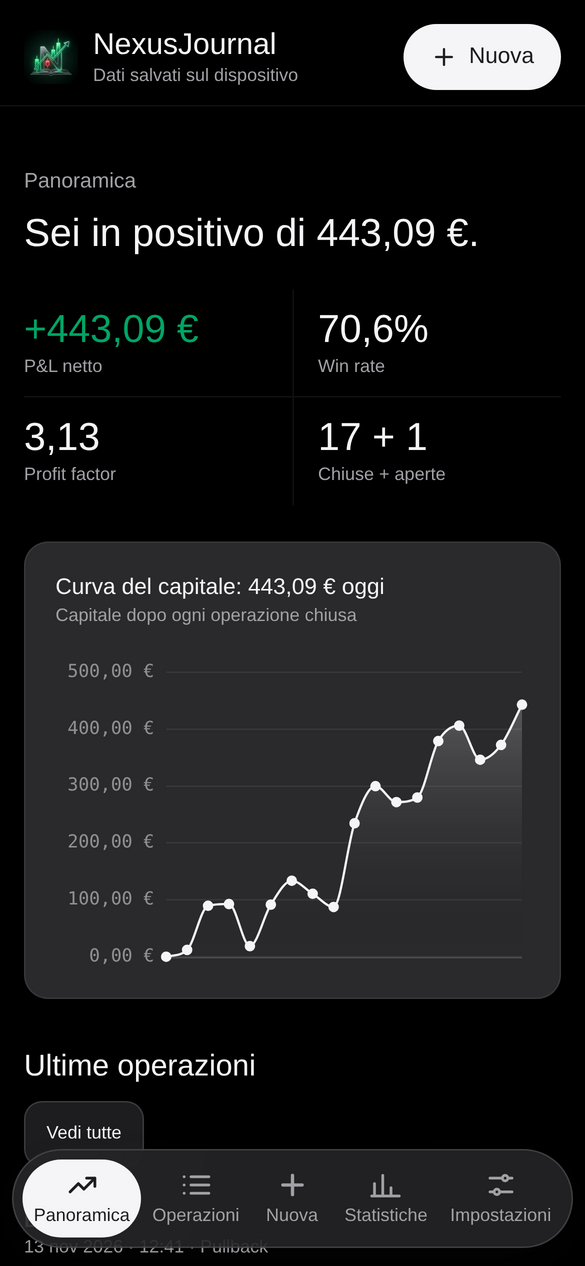
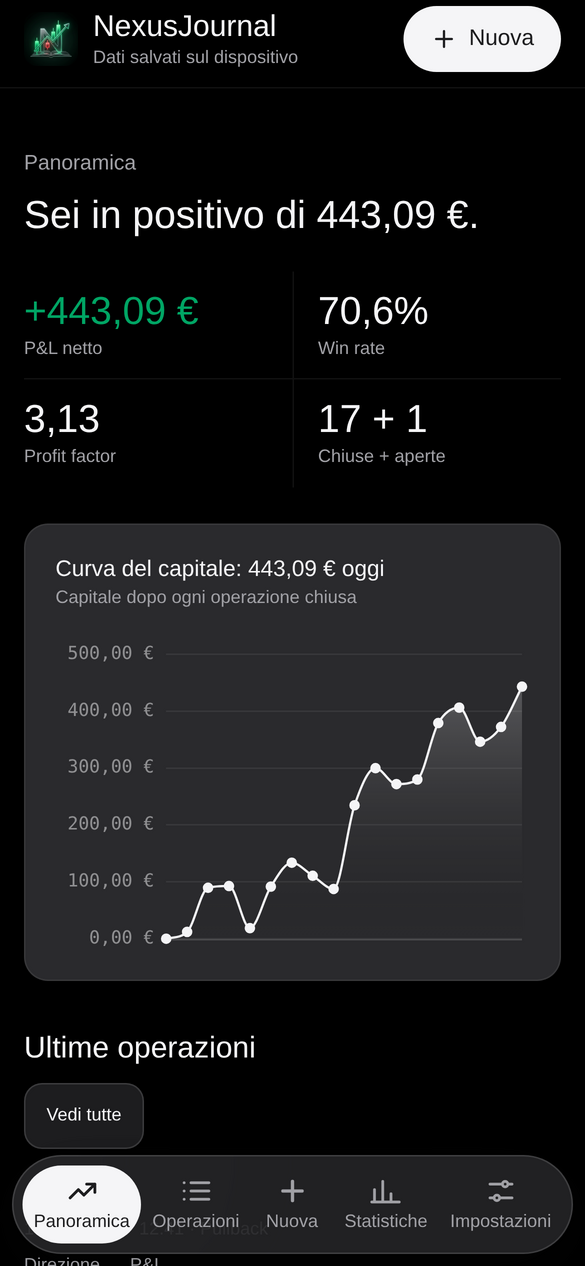
v1.3.2

diff --git a/index.html b/index.html
@@ -61,14 +61,15 @@
     <link rel="stylesheet" href="hark-charts.css" />
     <style>
       /* Black OLED theme: the page is pure black; every other color stays a kit token (dark mode). */
-      :root { color-scheme: dark; --x-oled: #000; }
-      html, body { background: var(--x-oled); }
-      body { -webkit-tap-highlight-color: transparent; }
-      .page { padding-top: calc(env(safe-area-inset-top, 0px) + 8px); padding-bottom: calc(env(safe-area-inset-bottom, 0px) + 104px); }
+      :root { color-scheme: dark; --x-oled: #000; --x-tab-h: 66px; --x-tab-bottom: max(8px, calc(env(safe-area-inset-bottom, 0px) - 12px)); }
+      html, body { background: var(--x-oled); margin: 0; }
+      html { height: -webkit-fill-available; min-height: 100%; }
+      body { min-height: 100%; min-height: -webkit-fill-available; min-height: 100dvh; -webkit-tap-highlight-color: transparent; }
+      .page { padding-top: 0; padding-bottom: calc(var(--x-tab-h) + var(--x-tab-bottom) + 12px); }
       .x-hide { display: none !important; }
 
       /* App bar */
-      .x-appbar { position: sticky; top: 0; z-index: 20; display: flex; align-items: center; justify-content: space-between; gap: 12px; margin-inline: calc(var(--gutter) * -1); padding: calc(env(safe-area-inset-top, 0px) + 8px) var(--gutter) 10px; background: color-mix(in srgb, var(--x-oled) 82%, transparent); -webkit-backdrop-filter: var(--hark-blur); backdrop-filter: var(--hark-blur); border-bottom: 1px solid var(--stroke-secondary); }
+      .x-appbar { position: sticky; top: 0; z-index: 20; display: flex; align-items: center; justify-content: space-between; gap: 12px; margin-inline: calc(var(--gutter) * -1); padding: calc(env(safe-area-inset-top, 0px) + 4px) var(--gutter) 10px; background: color-mix(in srgb, var(--x-oled) 82%, transparent); -webkit-backdrop-filter: var(--hark-blur); backdrop-filter: var(--hark-blur); border-bottom: 1px solid var(--stroke-secondary); }
       .x-brand { display: flex; align-items: center; gap: 10px; font: var(--type-heading); color: var(--text-primary); text-decoration: none; }
       .x-brand small { display: block; font: var(--type-caption); color: var(--text-secondary); }
       .x-logo { width: 36px; height: 36px; flex: none; border-radius: 22%; display: block; object-fit: cover; }
@@ -101,7 +102,7 @@
       .x-view > .head { margin-bottom: 20px; }
 
       /* Bottom tab bar */
-      .x-tabbar { position: fixed; left: 50%; bottom: calc(env(safe-area-inset-bottom, 0px) + 12px); transform: translateX(-50%); z-index: 30; display: flex; gap: 2px; padding: 6px; width: min(520px, calc(100% - 2 * var(--gutter))); border-radius: var(--r-pill); background: color-mix(in srgb, var(--fill-tertiary) 78%, transparent); -webkit-backdrop-filter: var(--hark-blur); backdrop-filter: var(--hark-blur); border: 1px solid var(--stroke-primary); box-shadow: var(--hark-shadow); }
+      .x-tabbar { position: fixed; left: 50%; bottom: var(--x-tab-bottom); transform: translateX(-50%); z-index: 30; display: flex; gap: 2px; padding: 6px; width: min(520px, calc(100% - 2 * var(--gutter))); border-radius: var(--r-pill); background: color-mix(in srgb, var(--fill-tertiary) 78%, transparent); -webkit-backdrop-filter: var(--hark-blur); backdrop-filter: var(--hark-blur); border: 1px solid var(--stroke-primary); box-shadow: var(--hark-shadow); }
       .x-tab { flex: 1; display: grid; justify-items: center; gap: 2px; min-height: 52px; padding: 6px 4px; border: 0; border-radius: var(--r-pill); background: none; color: var(--text-secondary); font: var(--type-caption); cursor: pointer; transition: color var(--dur-quick) ease, background var(--dur-quick) ease, transform var(--dur-quick) ease; }
       .x-tab[aria-current="page"] { background: var(--fill-primary); color: var(--text-primary-on); }
       .x-tab--add .x-ico { stroke-width: 2.4; }
@@ -155,7 +156,7 @@
       .x-empty p { color: var(--text-secondary); max-width: 40ch; }
 
       /* Toast */
-      .x-toast { position: fixed; left: 50%; bottom: calc(env(safe-area-inset-bottom, 0px) + 92px); z-index: 60; display: flex; align-items: center; gap: 8px; padding: 10px 16px; border-radius: var(--r-pill); background: var(--fill-primary); color: var(--text-primary-on); font: var(--type-label); box-shadow: var(--hark-shadow); transform: translate(-50%, 16px); opacity: 0; pointer-events: none; transition: opacity var(--dur-quick) ease, transform 300ms var(--ease-out); }
+      .x-toast { position: fixed; left: 50%; bottom: calc(var(--x-tab-bottom) + var(--x-tab-h) + 10px); z-index: 60; display: flex; align-items: center; gap: 8px; padding: 10px 16px; border-radius: var(--r-pill); background: var(--fill-primary); color: var(--text-primary-on); font: var(--type-label); box-shadow: var(--hark-shadow); transform: translate(-50%, 16px); opacity: 0; pointer-events: none; transition: opacity var(--dur-quick) ease, transform 300ms var(--ease-out); }
       .x-toast.is-on { opacity: 1; transform: translate(-50%, 0); }
       .x-toast .x-ico { width: 18px; height: 18px; }
       .x-toast.x-toast--top { bottom: auto; top: calc(env(safe-area-inset-top, 0px) + 16px); transform: translate(-50%, -16px); }
@@ -201,7 +202,7 @@
       @keyframes x-ob-breathe { from { transform: scale(1); } to { transform: scale(1.08) translateY(-2%); } }
       .x-ob__skip { position: absolute; z-index: 3; top: calc(env(safe-area-inset-top, 0px) + 8px); right: calc(env(safe-area-inset-right, 0px) + 12px); min-height: var(--tap); min-width: var(--tap); padding: 0 14px; border: 0; border-radius: var(--r-pill); background: transparent; color: rgba(255, 255, 255, .72); font: var(--type-body-strong); cursor: pointer; }
       .x-ob__skip:active { transform: scale(.96); }
-      .x-ob__stage { position: absolute; inset: 0; padding: calc(env(safe-area-inset-top, 0px) + 64px) calc(env(safe-area-inset-right, 0px) + 28px) calc(env(safe-area-inset-bottom, 0px) + 128px) calc(env(safe-area-inset-left, 0px) + 28px); }
+      .x-ob__stage { position: absolute; inset: 0; padding: calc(env(safe-area-inset-top, 0px) + 64px) calc(env(safe-area-inset-right, 0px) + 28px) calc(var(--x-tab-bottom) + 104px) calc(env(safe-area-inset-left, 0px) + 28px); }
       .x-ob__slide { position: absolute; inset: inherit; padding: inherit; display: flex; flex-direction: column; align-items: center; justify-content: center; text-align: center; opacity: 0; pointer-events: none; }
       .x-ob__slide.is-current { pointer-events: auto; }
       .x-ob__art, .x-ob__copy { will-change: transform, opacity; }
@@ -222,7 +223,7 @@
       .x-ob__copy p { margin: 0 auto; max-width: 30ch; font: var(--type-body); font-size: 17px; line-height: 1.45; color: rgba(255, 255, 255, .68); text-wrap: pretty; }
       .x-ob__start { display: flex; align-items: center; justify-content: center; width: min(100%, 340px); min-height: 56px; margin: 32px auto 0; border: 0; border-radius: var(--r-l); background: #fff; color: #000; font: var(--weight-bold) 17px/1 var(--sans); cursor: pointer; transition: transform var(--dur-quick) ease; }
       .x-ob__start:active { transform: scale(.97); }
-      .x-ob__foot { position: absolute; z-index: 3; left: 0; right: 0; bottom: 0; display: flex; align-items: center; justify-content: space-between; gap: 16px; padding: 0 calc(env(safe-area-inset-right, 0px) + 24px) calc(env(safe-area-inset-bottom, 0px) + 28px) calc(env(safe-area-inset-left, 0px) + 28px); pointer-events: none; }
+      .x-ob__foot { position: absolute; z-index: 3; left: 0; right: 0; bottom: 0; display: flex; align-items: center; justify-content: space-between; gap: 16px; padding: 0 calc(env(safe-area-inset-right, 0px) + 24px) calc(var(--x-tab-bottom) + 4px) calc(env(safe-area-inset-left, 0px) + 28px); pointer-events: none; }
       .x-ob__dots { position: relative; width: 72px; height: 8px; pointer-events: none; }
       .x-ob__dot { position: absolute; left: 0; top: 0; height: 8px; width: 24px; will-change: transform, opacity; }
       .x-ob__dot i { position: absolute; top: 0; left: 0; height: 8px; background: #fff; transform-origin: 0 50%; }
@@ -232,7 +233,7 @@
       .x-ob__next svg { width: 18px; height: 18px; fill: none; stroke: currentColor; stroke-width: 2; stroke-linecap: round; stroke-linejoin: round; }
       .x-ob__next:active { transform: scale(.96); }
       .x-ob button:focus-visible { outline: 2px solid #fff; outline-offset: 3px; }
-      .x-ob__ver { position: absolute; left: 0; right: 0; bottom: calc(env(safe-area-inset-bottom, 0px) + 96px); margin: 0; text-align: center; font: var(--type-caption); color: rgba(255, 255, 255, .5); pointer-events: none; }
+      .x-ob__ver { position: absolute; left: 0; right: 0; bottom: calc(var(--x-tab-bottom) + 72px); margin: 0; text-align: center; font: var(--type-caption); color: rgba(255, 255, 255, .5); pointer-events: none; }
       .x-version { margin: 32px 0 0; text-align: center; font: var(--type-caption); color: var(--text-secondary); }
       .x-row-btn { width: 100%; padding: 0; border: 0; background: transparent; color: inherit; font: var(--type-body); text-align: left; cursor: pointer; }
       .x-row-btn svg { width: 18px; height: 18px; flex: none; fill: none; stroke: var(--text-secondary); stroke-width: 2; stroke-linecap: round; stroke-linejoin: round; }
@@ -591,7 +592,7 @@
         var reduce = window.matchMedia("(prefers-reduced-motion: reduce)").matches;
 
         /* ---------- Version ---------- */
-        const APP_VERSION = "1.3.1";
+        const APP_VERSION = "1.3.2";
         $("app-version").textContent = APP + " v" + APP_VERSION;
         $("ob-version").textContent = "v" + APP_VERSION;
 

diff --git a/README.md b/README.md
@@ -6,7 +6,7 @@
 
 **Il tuo diario di trading personale, nero, fluido e tutto sul tuo iPhone.**
 
-<img src="https://img.shields.io/badge/Versione-v1.3.1-22c55e?style=for-the-badge&labelColor=1c1c1e" alt="Versione v1.3.1"><br>
+<img src="https://img.shields.io/badge/Versione-v1.3.2-22c55e?style=for-the-badge&labelColor=1c1c1e" alt="Versione v1.3.2"><br>
 <img src="https://img.shields.io/badge/iPhone%20%7C%20Android%20%7C%20Desktop-Web%20App-3b82f6?style=for-the-badge&labelColor=1c1c1e&logo=safari&logoColor=white" alt="iPhone | Android | Desktop Web App"><br>
 <img src="https://img.shields.io/badge/Lingua-Italiano-8b5cf6?style=for-the-badge&labelColor=1c1c1e" alt="Lingua Italiano"><br>
 <img src="https://img.shields.io/badge/Dati-Solo%20sul%20dispositivo-0d0d0f?style=for-the-badge&labelColor=1c1c1e&logo=icloud&logoColor=white" alt="Dati Solo sul dispositivo"><br>
@@ -94,6 +94,6 @@ Tutte le operazioni restano nella memoria locale del dispositivo (`localStorage`
 
 ## Versione
 
-**v1.3.1** · aggiornato il 19/11/2026
+**v1.3.2** · aggiornato il 19/11/2026
 
 <div align="center"><sub>Uso personale · © ALBAEXE</sub></div>
